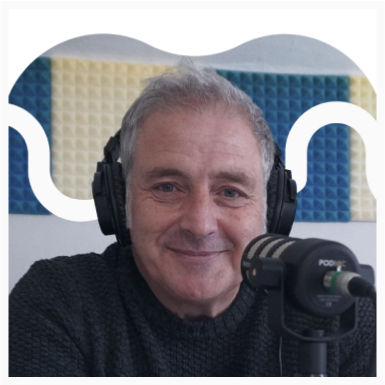
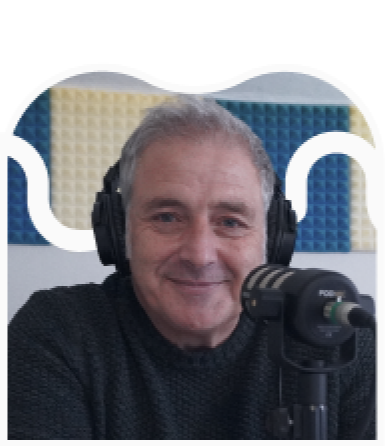
Retoques equipo

diff --git a/index.html b/index.html
@@ -575,10 +575,10 @@
     </section>
 
       <!-- Botón descarga programación completa -->
-      <a class="masprogramas" id="programacioncompletalink" href="Assets/horariojunio_ondamarinaonline.pdf"
+      <!-- <a class="masprogramas" id="programacioncompletalink" href="Assets/horariojunio_ondamarinaonline.pdf"
         target="_blank">
         <div id="programalink">DESCARGA EL PDF CON LA PROGRAMACIÓN COMPLETA</div>
-      </a>
+      </a> -->
 
       <!-- <img class="divisor" src="Assets/mapalocalizaciones/Union.png" alt=""> -->
     </section>
@@ -716,6 +716,26 @@ Escúchame en <a class="equipolocutorenlace" href="#programas">EL RINCÓN DE MAU
   </div>
 
 </div>
+
+
+ <!-- EQUIPO CUATRO TERCIOS -->
+ <div class="equipolocutor">
+  <span data-tilt> <img class="equipolocutorimg"
+    src="Assets/equipo/equipocineom.png" alt=""> </span>
+  <div class="equipolocutortextual">
+    <h2>EQUIPO CINE</h2>
+    <p>Sergio, profesor de historia y fiel servidor de onda marina. Amigo de sus amigos y padre de un tfg suspendido. En esta, o en su otra vida, encontrará su película. Nacho, apasionado del cine, en concreto del stop motion y las películas de risa, a parte de esto programador de corazón y profesión, futuro proyecto de músico...pero de futuro lejano.
+      "Algún día espero dirigir mi propia peli". Escúchanos en <a class="equipolocutorenlace" href="#programas">CUATRO TERCIOS</a></p> 
+    <div class="equipolocutorcontacto">
+      <img class="equipolocutorredes" src="" alt="">
+      <img class="equipolocutorredes" src="" alt="">
+
+    </div>
+
+  </div>
+
+</div>
+
 
 
       </article>
@@ -861,7 +881,7 @@ Escúchame en <a class="equipolocutorenlace" href="#programas">EL RINCÓN DE MAU
     <article class="footertop">
         <!-- <a class="footerlink" href=""></a><h2 style="color: #fafafa;">Legal</h2> -->
         <!-- <a class="footerlink" href=""><p> Aviso Legal</p></a> -->
-        <a class="footerlink" href="legal.html"><p> Política de Privacidad Y Cookies</p></a>
+        <a class="footerlink" href="legal.html"><p>PRIVACIDAD Y COOKIES</p></a>
         <!-- <a class="footerlink" href=""><p> Política de Cookies</p></a> -->
   
     </article>

diff --git a/legal.html b/legal.html
@@ -622,7 +622,7 @@
     <article class="footertop">
         <!-- <a class="footerlink" href=""></a><h2 style="color: #fafafa;">Legal</h2> -->
         <!-- <a class="footerlink" href=""><p> Aviso Legal</p></a> -->
-        <a class="footerlink" href="legal.html"><p> Política de Privacidad Y Cookies</p></a>
+        <a class="footerlink" href="legal.html"><p>PRIVACIDAD Y COOKIES</p></a>
         <!-- <a class="footerlink" href=""><p> Política de Cookies</p></a> -->
   
     </article>

diff --git a/noticia.html b/noticia.html
@@ -551,7 +551,7 @@
     <article class="footertop">
         <!-- <a class="footerlink" href=""></a><h2 style="color: #fafafa;">Legal</h2> -->
         <!-- <a class="footerlink" href=""><p> Aviso Legal</p></a> -->
-        <a class="footerlink" href="legal.html"><p> Política de Privacidad Y Cookies</p></a>
+        <a class="footerlink" href="legal.html"><p>PRIVACIDAD Y COOKIES</p></a>
         <!-- <a class="footerlink" href=""><p> Política de Cookies</p></a> -->
   
     </article>

diff --git a/noticias.html b/noticias.html
@@ -540,7 +540,7 @@
   <article class="footertop">
       <!-- <a class="footerlink" href=""></a><h2 style="color: #fafafa;">Legal</h2> -->
       <!-- <a class="footerlink" href=""><p> Aviso Legal</p></a> -->
-      <a class="footerlink" href="legal.html"><p> Política de Privacidad Y Cookies</p></a>
+      <a class="footerlink" href="legal.html"><p>PRIVACIDAD Y COOKIES</p></a>
       <!-- <a class="footerlink" href=""><p> Política de Cookies</p></a> -->
 
   </article>

diff --git a/Assets/main.css b/Assets/main.css
@@ -1847,11 +1847,21 @@ footer {
 
 .footertitulo {
   display: flex;
-  width: fit-content;
+  width: auto;
+  white-space: wrap;
+  
+}
+
+.footerlink {
+  display: flex;
+  align-items: center;
+  justify-content: center;
+  width: 100%;
 }
 
 .footerlink:hover {
   scale: 1.02;
+  
 }
 
 /* header y reproductor */
